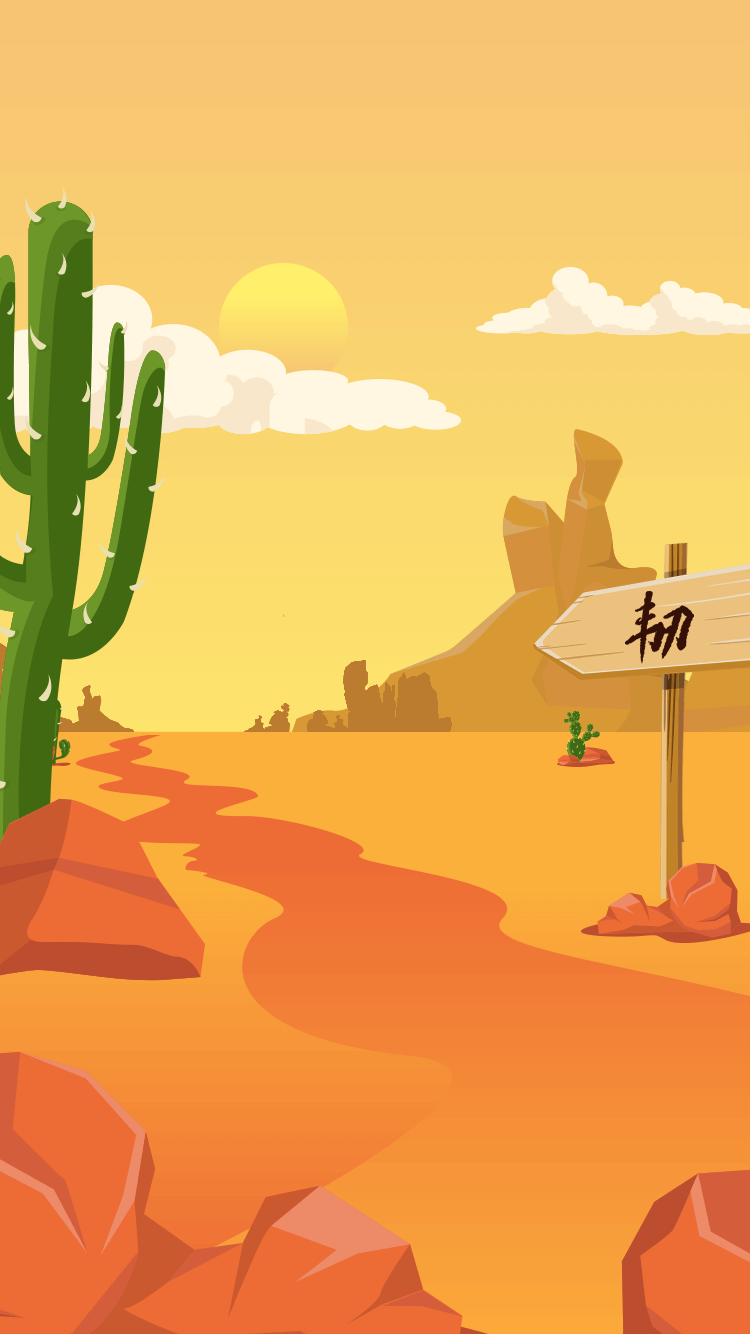
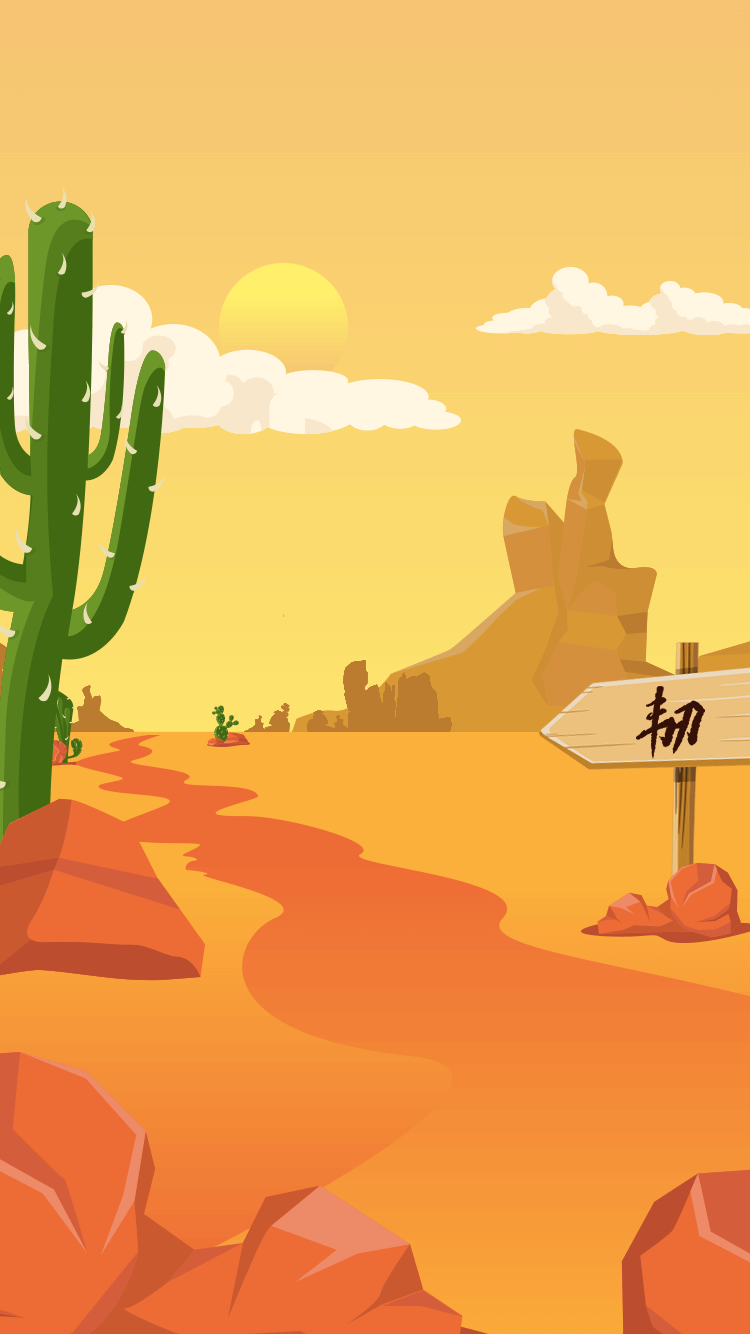
'背景id放到后端存储'

Changed region(s): [[0.7053, 0.3996, 1.0, 0.6762], [0.276, 0.5225, 0.3373, 0.584], [0.0613, 0.5225, 0.1227, 0.584]]

diff --git a/index.html b/index.html
@@ -380,15 +380,15 @@
                     if (data.data.level_id == 0) {
                         // 新用户
                         $('#htmlBox').show()
-                        window.localStorage.setItem('bgArrIndex', null)
                     } else {
                         // 老用户
                         $('#htmlBox').hide()
                     }
                     // 设置默认背景
-                    var bgArrIndex = JSON.parse(window.localStorage.getItem('bgArrIndex')) || 0
-                    $('.bgArr li').eq(bgArrIndex).show()
-                    $('.decorate .item').eq(bgArrIndex).addClass('active')
+                    var bgId = data.data.img
+                    window.localStorage.setItem('bgId', bgId)
+                    $('.bgArr li').eq(bgId).show()
+                    $('.decorate .item').eq(bgId).addClass('active')
                 }
             })
 
@@ -500,7 +500,8 @@
                 if (!bgClass || !bgClass.startsWith('bg')) return
                 $('.decorate .item').removeClass('active').eq(i).addClass('active')
                 $('.bgArr li').hide().eq(i).show()
-                window.localStorage.setItem('bgArrIndex', i)
+                $.ajax({url: host + '/game/api/user/updateImg?img=' + i})
+                window.localStorage.setItem('bgId', i)
             })
         })
     </script>

diff --git a/template/web/index.html b/template/web/index.html
@@ -379,15 +379,15 @@
                     if (data.data.level_id == 0) {
                         // 新用户
                         $('#htmlBox').show()
-                        window.localStorage.setItem('bgArrIndex', null)
                     } else {
                         // 老用户
                         $('#htmlBox').hide()
                     }
                     // 设置默认背景
-                    var bgArrIndex = JSON.parse(window.localStorage.getItem('bgArrIndex')) || 0
-                    $('.bgArr li').eq(bgArrIndex).show()
-                    $('.decorate .item').eq(bgArrIndex).addClass('active')
+                    var bgId = data.data.img
+                    window.localStorage.setItem('bgId', bgId)
+                    $('.bgArr li').eq(bgId).show()
+                    $('.decorate .item').eq(bgId).addClass('active')
                 }
             })
 
@@ -499,7 +499,8 @@
                 if (!bgClass || !bgClass.startsWith('bg')) return
                 $('.decorate .item').removeClass('active').eq(i).addClass('active')
                 $('.bgArr li').hide().eq(i).show()
-                window.localStorage.setItem('bgArrIndex', i)
+                $.ajax({url: host + '/game/api/user/updateImg?img=' + i})
+                window.localStorage.setItem('bgId', i)
             })
         })
     </script>

diff --git a/bin-debug/scene/FriendHomeScene.js b/bin-debug/scene/FriendHomeScene.js
@@ -122,13 +122,13 @@ var FriendHomeScene = (function (_super) {
         var h = this.stage.stageHeight;
         var level = data.visitInfo.level_id;
         var visitId = data.visitInfo.kind_id - 1;
-        var arr = [h - 5, h - 40, h + 130];
+        var arr = [h - 5, h - 40, h + 180];
         if (vbaoIsHere) {
             var myVbao = new Bones({
                 id: visitId,
                 level: level,
                 x: visitId == 2 ? w - 100 : w - 200,
-                y: arr[visitId],
+                y: visitId == 2 ? h + 100 : arr[visitId],
                 vbaoIsHere: vbaoIsHere,
             });
             this.addChild(myVbao);
@@ -147,6 +147,7 @@ var FriendHomeScene = (function (_super) {
             }
             else {
                 x = visitedId == 2 ? -100 : -200;
+                arr[2] = visitedId == 2 ? h + 100 : arr[visitedId];
                 scaleX = -1;
             }
         }

diff --git a/src/scene/FriendHomeScene.ts b/src/scene/FriendHomeScene.ts
@@ -139,13 +139,13 @@ class FriendHomeScene extends Scene {
         let h = this.stage.stageHeight
         let level = data.visitInfo.level_id
         let visitId = data.visitInfo.kind_id - 1
-        let arr = [h - 5, h - 40, h + 130]
+        let arr = [h - 5, h - 40, h + 180]
         if (vbaoIsHere) {
             let myVbao = new Bones({
                 id: visitId,
                 level,
                 x: visitId == 2 ? w - 100 : w - 200,
-                y: arr[visitId],
+                y: visitId == 2 ? h + 100 : arr[visitId],
                 vbaoIsHere,
             })
             this.addChild(myVbao)
@@ -163,6 +163,7 @@ class FriendHomeScene extends Scene {
                 type = 'box2_r'
             } else {
                 x = visitedId == 2 ? -100 : -200
+                arr[2] = visitedId == 2 ? h + 100 : arr[visitedId]
                 scaleX = -1
             }
         }

diff --git a/src/scene/GetBoxScene.ts b/src/scene/GetBoxScene.ts
@@ -7,8 +7,8 @@ class GetBoxScene extends Scene {
     }
 
     public init() {
-        let bgArrIndex = JSON.parse(window.localStorage.getItem('bgArrIndex')) || 0
-        let bgName = bgArrIndex == 0 ? 'bg' : 'bg' + (bgArrIndex + 1)
+        let bgId = JSON.parse(window.localStorage.getItem('bgId')) || 0
+        let bgName = bgId == 0 ? 'bg' : 'bg' + (bgId + 1)
         let sceneBg = Util.createBitmapByName(bgName)
         sceneBg.width = this.stage.stageWidth
         sceneBg.height = this.stage.stageHeight

diff --git a/bin-debug/component/Alert.js b/bin-debug/component/Alert.js
@@ -39,7 +39,7 @@ var Alert = (function (_super) {
         this.addChild(tail);
         this.visible = false;
         this.x = stage.stageWidth - bg.width - 32;
-        this.y = stage.stageHeight - (bg.height + tail.height) - 500;
+        this.y = stage.stageHeight - (bg.height + tail.height) - 470;
     };
     Alert.prototype.setText = function (text) {
         this.tips.text = text;

diff --git a/src/scene/IndexScene.ts b/src/scene/IndexScene.ts
@@ -128,9 +128,9 @@ class IndexScene extends Scene {
                 { x: w, y: h - 120 },
             ],
             [
-                { x: w, y: h -5 },
-                { x: w, y: h - 20 },
-                { x: w + 100, y: h + 130 },
+                { x: w, y: h - 5 },
+                { x: w, y: h - 40 },
+                { x: w + 100, y: h + 180 },
             ],
         ]
 

diff --git a/src/component/Alert.ts b/src/component/Alert.ts
@@ -31,7 +31,7 @@ class Alert extends egret.DisplayObjectContainer {
         this.addChild(tail)
         this.visible = false
         this.x = stage.stageWidth - bg.width - 32
-        this.y = stage.stageHeight - (bg.height + tail.height) - 500
+        this.y = stage.stageHeight - (bg.height + tail.height) - 470
     }
 
     public setText(text) {

diff --git a/bin-debug/scene/IndexScene.js b/bin-debug/scene/IndexScene.js
@@ -129,8 +129,8 @@ var IndexScene = (function (_super) {
             ],
             [
                 { x: w, y: h - 5 },
-                { x: w, y: h - 20 },
-                { x: w + 100, y: h + 130 },
+                { x: w, y: h - 40 },
+                { x: w + 100, y: h + 180 },
             ],
         ];
         var bones = new Bones({
